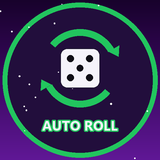
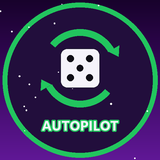
Rogue Roller 2.1.0: Chaos, Autopilot and the Auto Roll menu
Chaos joins the Mythic forge effects with a Chaos draws table of every
effect it can become. Basics explains the free Auto Roll unlock and the
Autopilot pass (gate cards left, right or skip), and the store card uses
the Autopilot name, description and art.

Changed region(s): [[0.25, 0.7188, 0.75, 0.8438]]

diff --git a/docs/rogue-roller/forge.md b/docs/rogue-roller/forge.md
@@ -6,7 +6,7 @@ The forge puts permanent effects on the faces of your die. Open crates with meta
 
 ## Crates
 
-Every crate draws from all 36 effects. Dearer crates can't land below a certain rarity, which takes the commons (and more) out of the draw.
+Every crate draws from all 37 effects. Dearer crates can't land below a certain rarity, which takes the commons (and more) out of the draw.
 
 <div class="rr-grid rr-grid--wide">
 <div class="rr-card " style="--ring: rgb(158, 150, 178)"><div class="rr-card-head"><img class="rr-art rr-art--icon" src="../../assets/rogue-roller/icons/crates/worn.png" alt="" loading="lazy"><div class="rr-card-title"><strong>Worn Crate</strong><div class="rr-tags"><span class="rr-tag">150 meta</span></div></div></div><div class="rr-odds-list"><div class="rr-odds" style="--c: rgb(158, 150, 178)"><span>Common</span><div class="rr-bar"><i style="width: 55.39%"></i></div><b>55.39%</b></div><div class="rr-odds" style="--c: rgb(90, 206, 160)"><span>Uncommon</span><div class="rr-bar"><i style="width: 26.71%"></i></div><b>26.71%</b></div><div class="rr-odds" style="--c: rgb(92, 170, 255)"><span>Rare</span><div class="rr-bar"><i style="width: 12.86%"></i></div><b>12.86%</b></div><div class="rr-odds" style="--c: rgb(190, 124, 255)"><span>Epic</span><div class="rr-bar"><i style="width: 3.56%"></i></div><b>3.56%</b></div><div class="rr-odds" style="--c: rgb(255, 102, 153)"><span>Legendary</span><div class="rr-bar"><i style="width: 1.19%"></i></div><b>1.19%</b></div><div class="rr-odds" style="--c: rgb(255, 178, 66)"><span>Mythic</span><div class="rr-bar"><i style="width: 0.30%"></i></div><b>0.3%</b></div></div></div>
@@ -80,10 +80,46 @@ The numbers along the bottom of each card are the chance of getting that exact e
 ### Mythic
 
 <div class="rr-grid ">
-<div class="rr-card " style="--ring: rgb(255, 178, 66)"><div class="rr-card-head"><img class="rr-art rr-art--icon" src="../../assets/rogue-roller/icons/forge/avalanche.png" alt="" loading="lazy"><div class="rr-card-title"><strong>Avalanche</strong><div class="rr-tags"><span class="rr-tag">Mythic</span><span class="rr-tag rr-tag--plain">Scoring</span></div></div></div><p class="rr-card-body">This face pays four times over, on any tile.</p><div class="rr-card-foot"><span class="rr-price"><small>Worn</small><b>0.07%</b></span><span class="rr-price"><small>Gilded</small><b>0.17%</b></span><span class="rr-price"><small>Astral</small><b>0.41%</b></span></div></div>
-<div class="rr-card " style="--ring: rgb(255, 178, 66)"><div class="rr-card-head"><img class="rr-art rr-art--icon" src="../../assets/rogue-roller/icons/forge/resonance.png" alt="" loading="lazy"><div class="rr-card-title"><strong>Resonance</strong><div class="rr-tags"><span class="rr-tag">Mythic</span><span class="rr-tag rr-tag--plain">Trigger</span></div></div></div><p class="rr-card-body">Every lucky bonus that hit this throw pays again: each Double Down hit, a won Coin Flip, Lucky Seven, and a Bloom, Glow or Turnabout an earlier throw set up. The extra is capped at 10x.</p><div class="rr-card-foot"><span class="rr-price"><small>Worn</small><b>0.07%</b></span><span class="rr-price"><small>Gilded</small><b>0.17%</b></span><span class="rr-price"><small>Astral</small><b>0.41%</b></span></div></div>
-<div class="rr-card " style="--ring: rgb(255, 178, 66)"><div class="rr-card-head"><img class="rr-art rr-art--icon" src="../../assets/rogue-roller/icons/forge/omnishot.png" alt="" loading="lazy"><div class="rr-card-title"><strong>Omni Shot</strong><div class="rr-tags"><span class="rr-tag">Mythic</span><span class="rr-tag rr-tag--plain">Trigger</span></div></div></div><p class="rr-card-body">A 1 in 4 chance to throw the dice twice more, up to 4 times a roll. Those throws can trigger it again and charge no Spark.</p><div class="rr-card-foot"><span class="rr-price"><small>Worn</small><b>0.07%</b></span><span class="rr-price"><small>Gilded</small><b>0.17%</b></span><span class="rr-price"><small>Astral</small><b>0.41%</b></span></div></div>
-<div class="rr-card " style="--ring: rgb(255, 178, 66)"><div class="rr-card-head"><img class="rr-art rr-art--icon" src="../../assets/rogue-roller/icons/forge/eternity.png" alt="" loading="lazy"><div class="rr-card-title"><strong>Eternity</strong><div class="rr-tags"><span class="rr-tag">Mythic</span><span class="rr-tag rr-tag--plain">Trigger</span></div></div></div><p class="rr-card-body">Every roll this face lands is written down. When you cross a biome gate, every written roll pays again, then the list clears.</p><div class="rr-card-foot"><span class="rr-price"><small>Worn</small><b>0.07%</b></span><span class="rr-price"><small>Gilded</small><b>0.17%</b></span><span class="rr-price"><small>Astral</small><b>0.41%</b></span></div></div>
+<div class="rr-card " style="--ring: rgb(255, 178, 66)"><div class="rr-card-head"><img class="rr-art rr-art--icon" src="../../assets/rogue-roller/icons/forge/avalanche.png" alt="" loading="lazy"><div class="rr-card-title"><strong>Avalanche</strong><div class="rr-tags"><span class="rr-tag">Mythic</span><span class="rr-tag rr-tag--plain">Scoring</span></div></div></div><p class="rr-card-body">This face pays four times over, on any tile.</p><div class="rr-card-foot"><span class="rr-price"><small>Worn</small><b>0.06%</b></span><span class="rr-price"><small>Gilded</small><b>0.13%</b></span><span class="rr-price"><small>Astral</small><b>0.33%</b></span></div></div>
+<div class="rr-card " style="--ring: rgb(255, 178, 66)"><div class="rr-card-head"><img class="rr-art rr-art--icon" src="../../assets/rogue-roller/icons/forge/resonance.png" alt="" loading="lazy"><div class="rr-card-title"><strong>Resonance</strong><div class="rr-tags"><span class="rr-tag">Mythic</span><span class="rr-tag rr-tag--plain">Trigger</span></div></div></div><p class="rr-card-body">Every lucky bonus that hit this throw pays again: each Double Down hit, a won Coin Flip, Lucky Seven, and a Bloom, Glow or Turnabout an earlier throw set up. The extra is capped at 10x.</p><div class="rr-card-foot"><span class="rr-price"><small>Worn</small><b>0.06%</b></span><span class="rr-price"><small>Gilded</small><b>0.13%</b></span><span class="rr-price"><small>Astral</small><b>0.33%</b></span></div></div>
+<div class="rr-card " style="--ring: rgb(255, 178, 66)"><div class="rr-card-head"><img class="rr-art rr-art--icon" src="../../assets/rogue-roller/icons/forge/omnishot.png" alt="" loading="lazy"><div class="rr-card-title"><strong>Omni Shot</strong><div class="rr-tags"><span class="rr-tag">Mythic</span><span class="rr-tag rr-tag--plain">Trigger</span></div></div></div><p class="rr-card-body">A 1 in 4 chance to throw the dice twice more, up to 4 times a roll. Those throws can trigger it again and charge no Spark.</p><div class="rr-card-foot"><span class="rr-price"><small>Worn</small><b>0.06%</b></span><span class="rr-price"><small>Gilded</small><b>0.13%</b></span><span class="rr-price"><small>Astral</small><b>0.33%</b></span></div></div>
+<div class="rr-card " style="--ring: rgb(255, 178, 66)"><div class="rr-card-head"><img class="rr-art rr-art--icon" src="../../assets/rogue-roller/icons/forge/eternity.png" alt="" loading="lazy"><div class="rr-card-title"><strong>Eternity</strong><div class="rr-tags"><span class="rr-tag">Mythic</span><span class="rr-tag rr-tag--plain">Trigger</span></div></div></div><p class="rr-card-body">Every roll this face lands is written down. When you cross a biome gate, every written roll pays again, then the list clears.</p><div class="rr-card-foot"><span class="rr-price"><small>Worn</small><b>0.06%</b></span><span class="rr-price"><small>Gilded</small><b>0.13%</b></span><span class="rr-price"><small>Astral</small><b>0.33%</b></span></div></div>
+<div class="rr-card " style="--ring: rgb(255, 178, 66)"><div class="rr-card-head"><img class="rr-art rr-art--icon" src="../../assets/rogue-roller/icons/forge/chaos.png" alt="" loading="lazy"><div class="rr-card-title"><strong>Chaos</strong><div class="rr-tags"><span class="rr-tag">Mythic</span><span class="rr-tag rr-tag--plain">Trigger</span></div></div></div><p class="rr-card-body">Every time this face lands it turns into a random effect at its top level and does what that effect does, Omni Shot included. Common effects come up most, mythic ones least. It never turns into an effect that moves you, weighs the die or copies a face.</p><div class="rr-card-foot"><span class="rr-price"><small>Worn</small><b>0.06%</b></span><span class="rr-price"><small>Gilded</small><b>0.13%</b></span><span class="rr-price"><small>Astral</small><b>0.33%</b></span></div></div>
 </div>
+
+## Chaos draws
+
+Every time a Chaos face lands, it turns into one of these 28 effects at the effect's top level and works exactly like that effect for that throw. Weight effects, effects that move you and Mimic are never drawn.
+
+| Effect | Rarity | Chance each landing |
+| --- | --- | --- |
+| Gilded | Common | 5.93% |
+| Moonstone | Common | 5.93% |
+| Stepping Stone | Common | 5.93% |
+| Sunstone | Common | 5.93% |
+| Surge | Common | 5.93% |
+| Ember | Uncommon | 4.44% |
+| Glow | Uncommon | 4.44% |
+| Magpie | Uncommon | 4.44% |
+| Multi Shot | Uncommon | 4.44% |
+| Tithe | Uncommon | 4.44% |
+| Twin Star | Uncommon | 4.44% |
+| Echo | Rare | 3.7% |
+| Gambit | Rare | 3.7% |
+| Keystone | Rare | 3.7% |
+| Bloom | Epic | 2.96% |
+| Crown | Epic | 2.96% |
+| Fuse | Epic | 2.96% |
+| Obsidian | Epic | 2.96% |
+| Supernova | Epic | 2.96% |
+| Turnabout | Epic | 2.96% |
+| Card Counter | Legendary | 2.22% |
+| Philosopher's Stone | Legendary | 2.22% |
+| Wheel of Fortune | Legendary | 2.22% |
+| Wildcard | Legendary | 2.22% |
+| Avalanche | Mythic | 1.48% |
+| Eternity | Mythic | 1.48% |
+| Omni Shot | Mythic | 1.48% |
+| Resonance | Mythic | 1.48% |
 
 <p class="wiki-version">Numbers on this page match Rogue Roller version 2.1.0.</p>

diff --git a/docs/rogue-roller/store.md b/docs/rogue-roller/store.md
@@ -9,7 +9,7 @@ Everything in the store is optional. Robux prices are shown in the game.
 Buy once, keep forever.
 
 <div class="rr-grid ">
-<div class="rr-card " style="--ring: #22c55e"><div class="rr-card-head"><img class="rr-art" src="../../assets/rogue-roller/store/autoroll.png" alt="" loading="lazy"><div class="rr-card-title"><strong>Auto Roll</strong></div></div><p class="rr-card-body">A toggle that rolls for you automatically.</p></div>
+<div class="rr-card " style="--ring: #22c55e"><div class="rr-card-head"><img class="rr-art" src="../../assets/rogue-roller/store/autoroll.png" alt="" loading="lazy"><div class="rr-card-title"><strong>Autopilot</strong></div></div><p class="rr-card-body">Auto Roll from your first run, as fast as the game allows. It can pick your gate cards and stop when your rolls run low.</p></div>
 <div class="rr-card " style="--ring: #22c55e"><div class="rr-card-head"><img class="rr-art" src="../../assets/rogue-roller/store/fastforward.png" alt="" loading="lazy"><div class="rr-card-title"><strong>Fast Forward</strong></div></div><p class="rr-card-body">Your ball and the tiles move about twice as fast. The dice still rolls for real.</p></div>
 <div class="rr-card " style="--ring: #22c55e"><div class="rr-card-head"><img class="rr-art" src="../../assets/rogue-roller/store/doublemeta.png" alt="" loading="lazy"><div class="rr-card-title"><strong>Double Meta</strong></div></div><p class="rr-card-body">Earn double meta points from every run. Tithe faces are not doubled.</p></div>
 <div class="rr-card " style="--ring: #22c55e"><div class="rr-card-head"><img class="rr-art" src="../../assets/rogue-roller/store/rgb.png" alt="" loading="lazy"><div class="rr-card-title"><strong>Colour Picker</strong></div></div><p class="rr-card-body">Mix your own colour for your dice and ball. Very dark ball colours get lightened.</p></div>
@@ -19,7 +19,7 @@ Buy once, keep forever.
 ## Roblox Premium
 
 <div class="rr-grid ">
-<div class="rr-card " style="--ring: #eab308"><div class="rr-card-head"><span class="rr-gem">👑</span><div class="rr-card-title"><strong>Roblox Premium</strong></div></div><p class="rr-card-body">Auto Roll and Free Respec, free for as long as your membership lasts.</p><p class="rr-card-body">A dice and a ball nobody can buy: yours to wear for as long as your Roblox Premium membership lasts. (Sovereign, Diadem)</p></div>
+<div class="rr-card " style="--ring: #eab308"><div class="rr-card-head"><span class="rr-gem">👑</span><div class="rr-card-title"><strong>Roblox Premium</strong></div></div><p class="rr-card-body">Autopilot and Free Respec, free for as long as your membership lasts.</p><p class="rr-card-body">A dice and a ball nobody can buy: yours to wear for as long as your Roblox Premium membership lasts. (Sovereign, Diadem)</p></div>
 </div>
 
 ## Roll packs

diff --git a/docs/rogue-roller/basics.md b/docs/rogue-roller/basics.md
@@ -12,7 +12,8 @@
 - Each roll moves your ball that many tiles, and every tile you cross pays points: 1 point to start with, plus whatever your upgrades add.
 - Tiles are light or dark. Lots of cards care which colour you land on.
 - The run ends when you run out of rolls. Your score then turns into [meta points](#meta-points).
-- **Auto Roll** rolls for you. Everyone unlocks it after 15 minutes of play, counted across sessions, and the Auto Roll [pass](store.md) or Roblox Premium unlocks it straight away.
+- **Auto Roll** rolls for you, with a 1 second pause between rolls. Everyone unlocks it after 15 minutes of play, counted across sessions. Tap the AUTO button in a run to open its menu.
+- **Autopilot**, the [pass](store.md) (also included with Roblox Premium), unlocks Auto Roll straight away, rolls as fast as the game allows, can take your gate cards and Spark choice for you (the left card, the right card, or a skip for the perk), and can stop itself when your rolls run low.
 
 ## Biomes and gates
 
